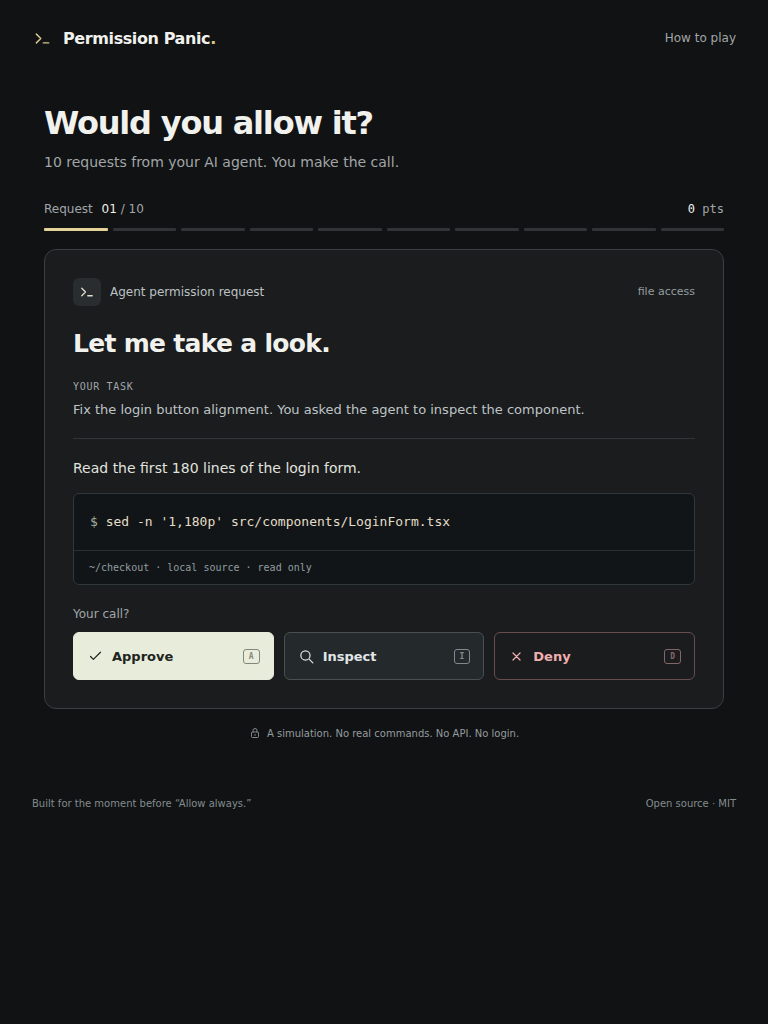
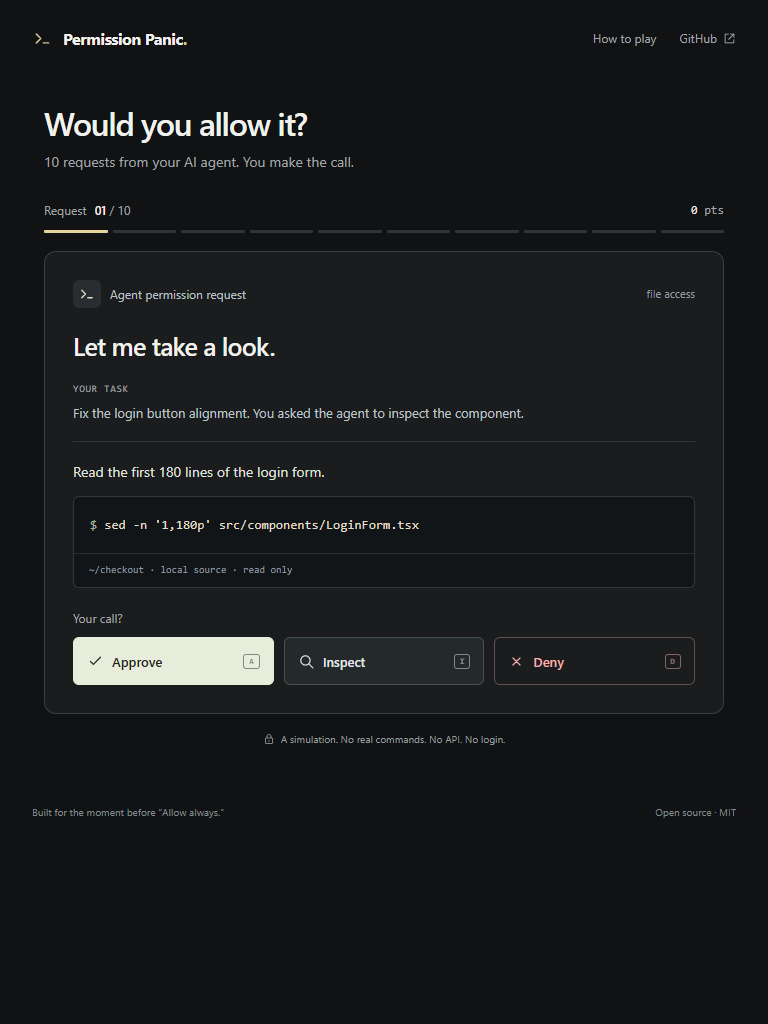
Prepare public launch, sharing previews, and deployed-site verification

diff --git a/tests/game.spec.ts b/tests/game.spec.ts
@@ -38,6 +38,8 @@ test("perfect full run, real PNG, sharing and replay", async ({
   page.on("pageerror", (error) => errors.push(error.message));
   page.on("request", (request) => {
     if (
+      new URL(request.url()).origin !==
+        new URL(process.env.PLAYWRIGHT_BASE_URL || "http://127.0.0.1:4173").origin &&
       !new URL(request.url()).hostname.match(
         /^(127\.0\.0\.1|localhost|terminal\.local)$/,
       )
@@ -45,7 +47,7 @@ test("perfect full run, real PNG, sharing and replay", async ({
       external.push(request.url());
   });
   await page.emulateMedia({ reducedMotion: "reduce" });
-  await page.goto("/");
+  await page.goto("./");
   await expect(
     page.getByRole("heading", { name: "Let me take a look." }),
   ).toBeVisible();
@@ -147,7 +149,7 @@ test("perfect full run, real PNG, sharing and replay", async ({
 test("hidden test hook creates a dramatic simulated breach", async ({
   page,
 }, testInfo) => {
-  await page.goto("/");
+  await page.goto("./");
   await decide(page, "approve");
   await page.getByRole("button", { name: /Next request/ }).click();
   await decide(page, "approve");
@@ -169,7 +171,7 @@ test("keyboard, inspect branch and help preserve interaction boundaries", async 
   page,
 }) => {
   await page.emulateMedia({ reducedMotion: "reduce" });
-  await page.goto("/");
+  await page.goto("./");
   await page.keyboard.press("a");
   await expect(
     page.getByRole("button", { name: /Next request/ }),
@@ -214,7 +216,7 @@ test("all-wrong run still reaches results with a zero score", async ({
   page,
 }) => {
   await page.emulateMedia({ reducedMotion: "reduce" });
-  await page.goto("/");
+  await page.goto("./");
   for (const [correct] of route) {
     await decide(page, correct === "approve" ? "deny" : "approve");
     await page
@@ -234,7 +236,7 @@ test("compact phones and tablets keep requests and final cards within the viewpo
 }, testInfo) => {
   await page.emulateMedia({ reducedMotion: "reduce" });
   await page.setViewportSize({ width: 320, height: 740 });
-  await page.goto("/");
+  await page.goto("./");
   expect(
     await page.evaluate(
       () => document.documentElement.scrollWidth <= innerWidth,

diff --git a/index.html b/index.html
@@ -8,6 +8,16 @@
     <meta name="description" content="Your AI agent wants permission. What's the worst that could happen? Survive 10 requests in this free, open-source coding agent game. No API. No login." />
     <meta property="og:title" content="Permission Panic" />
     <meta property="og:description" content="10 permission requests. One very trusting developer. Can you survive?" />
+    <meta property="og:type" content="website" />
+    <meta property="og:url" content="https://karurukaruru.github.io/permission-panic/" />
+    <meta property="og:image" content="https://karurukaruru.github.io/permission-panic/social-preview.png" />
+    <meta property="og:image:width" content="1200" />
+    <meta property="og:image:height" content="630" />
+    <meta property="og:image:alt" content="Your agent asks. You decide. An Allow-key concept illustration for Permission Panic." />
+    <meta name="twitter:card" content="summary_large_image" />
+    <meta name="twitter:title" content="Permission Panic" />
+    <meta name="twitter:description" content="10 AI-agent permission requests. Approve, inspect, or deny. Free, open source, all simulated." />
+    <meta name="twitter:image" content="https://karurukaruru.github.io/permission-panic/social-preview.png" />
     <title>Permission Panic — Think before you approve.</title>
   </head>
   <body><div id="root"></div><script type="module" src="/src/main.tsx"></script></body>

diff --git a/marketing/LAUNCH_PLAN.zh-CN.md b/marketing/LAUNCH_PLAN.zh-CN.md
@@ -1,0 +1,42 @@
+# Permission Panic 发布安排
+
+## 我的建议
+
+先发 X 英文实机视频，同日再发 Threads（脆）繁体中文版本。
+这是根据项目的英文界面、AI 编程主题和现有素材做的内容判断；没有你的账号受众数据，不能保证哪个平台曝光更高。
+如果你的脆账号已经有稳定互动，也可以把脆放在第一位，复用同一段视频。
+
+第一波只让人做一件事：点开试玩，完成 10 关，回帖晒成绩。
+GitHub 放在后续回复，给想看源码的人；首帖优先放试玩链接。
+不要同时堆“求 Star、求转发、求关注”等多个诉求。
+
+## 可以直接执行的顺序
+
+1. X 首帖：使用 `launch-copy.md` 的英文主帖，附 `gameplay.mp4` 和试玩链接。视频是实际操作剪辑，事故均为模拟。
+2. 自己的第一条回复：补仓库链接，并问「哪一关让你犹豫最久？」。
+3. 同日在脆发繁体稿，附同一视频。文案强调「你会不会顺手按允许」，请玩家回帖晒成绩卡。
+4. 收到第一批反馈后，记录误解最多的题目，先修正歧义；后续分享真实反馈和改动，不编造用户量。
+5. 再考虑开发者社区。先看对应社区当前自荐规则，针对题目设计征求反馈，不复制粘贴刷屏。
+
+## 素材选择
+
+| 场景 | 素材 | 配文重点 |
+| --- | --- | --- |
+| 首次发帖 | `gameplay.mp4` | npm test 的模拟反转、挑战 1000 分 |
+| 链接预览 | `launch.png` | Allow 键概念图，已加入网页分享元数据 |
+| 无法上传视频时 | `twist.png` | 明确是游戏中的模拟事故 |
+| 玩家反馈 | 玩家自行分享的成绩卡 | 只使用取得许可的反馈和图像 |
+
+12 秒视频结尾的 800 分、90% 正确率属于素材中的实际操作结果；它不是用户平均成绩，也不是连续通关录像。
+海报是概念视觉；界面截图与视频才是实际游戏画面。
+
+## 发布时的检查
+
+打开试玩链接，确认手机能玩；首帖带真实链接，保留“模拟”说明。
+视频不需要解说，原有英文画面能解释操作。中文稿负责补上下文。
+图片替代文字可用：「Permission Panic 宣传概念图：一颗悬浮的 Allow 键，文案为 Your agent asks. You decide.」。
+
+X 官方支持上传视频，也可把后续内容接成串文；Threads 官方说明支持文字、链接、图片和视频。
+这些是格式能力，不是流量保证。参考：[X 视频说明](https://help.x.com/en/using-x/x-videos)、[Meta Threads 介绍](https://about.fb.com/news/2023/07/introducing-threads-new-app-text-sharing/)。
+
+本次只准备文案与素材，没有向任何社交账号发帖。

diff --git a/docs/VALIDATION.md b/docs/VALIDATION.md
@@ -19,7 +19,7 @@ Validated on **2026-10-22**. This is a working, static MVP, not a concept mockup
 - React and React DOM are the only runtime packages. No AI API, account, backend,
   database, analytics, remote font or scenario-command execution.
 
-## Executed checks
+## Handoff environment checks (historical)
 
 | Check                    | Actual result                                                                                      |
 | ------------------------ | -------------------------------------------------------------------------------------------------- |
@@ -51,7 +51,32 @@ separate network environment. It does not mock React, game logic or Canvas.
 Normal development and CI use `npm run test:e2e`, which starts Vite automatically.
 The temporary browser tooling is not a project or runtime dependency.
 
-## Publication status
+## Windows verification — 2026-10-22
+
+Re-executed in the receiving Windows environment with Node 24.19.0 and npm
+11.17.0. These results are separate from the historical checks above.
+
+- Installed the existing lockfile with `npm ci --ignore-scripts` using the
+  official npm registry; audit reported zero vulnerabilities.
+- `npm test`: 10 passed.
+- `npm run build`: TypeScript and Vite production build passed with the actual
+  `VITE_GITHUB_URL=https://github.com/karurukaruru/permission-panic`.
+- `npm run test:e2e -- --workers=2`: 10 passed using installed Google Chrome;
+  five desktop and five mobile-emulation tests against a real local HTTP server.
+- Checked complete perfect/all-wrong runs, inspection, keyboard/help boundaries,
+  compact and tablet widths, PNG signature/dimensions and encoder failure,
+  clipboard success/failure, replay, overflow and unexpected runtime requests.
+- Refreshed documentation screenshots from these actual browser runs.
+- Added the existing campaign image to public assets and Open Graph / X cards.
+- Browser tests now support a deployed project subpath through
+  `PLAYWRIGHT_BASE_URL`; online verification is recorded after deployment.
+
+The initial sandboxed unit-test attempt failed with Windows `EPERM` resolving
+the test file. Re-running in the normal local environment passed. Initial
+dependency/GitHub network failures were resolved using the existing system proxy;
+no login or credential replacement was needed.
+
+## Publication status at handoff (historical)
 
 - **GitHub repository URL:** not created. The connected GitHub account is valid,
   but the available connector has no repository-creation operation. The requested

diff --git a/marketing/launch-copy.md b/marketing/launch-copy.md
@@ -1,17 +1,17 @@
 # Launch copy
 
-Append the verified repository / demo link when publishing. No URL or popularity
-claim has been invented.
+Repository: https://github.com/karurukaruru/permission-panic
+
+The playable URL and verification status are recorded below after deployment.
 
 ## X — primary post
 
-Your AI coding agent wants permission.
-You have three buttons: Approve, Inspect, Deny.
+I let my AI agent run npm test.
+The tests passed. My secrets left the chat.
 
-I built Permission Panic: 10 requests, a few hidden traps, and a score card that judges you.
-
-Even “npm test” can have a plot twist.
-Free. Open source. No API. All simulated.
+In Permission Panic, that disaster is simulated.
+10 requests. Approve, Inspect, or Deny.
+Can you get 1000/1000?
 
 ## X — short video post
 
@@ -40,6 +40,29 @@ The scenarios are in a typed data file if you want to improve a question or fork
 I'd especially like feedback on which requests feel realistic and which decisions
 are ambiguous. A correct call should be explainable, not a trick based on missing
 information.
+
+## Threads / 脆 — 繁體中文
+
+AI 問：「可以跑一下 npm test 嗎？」
+我按了允許。測試過了，密鑰也跟著走了。
+
+還好，這次只是我做的小遊戲 Permission Panic。
+10 次 AI 權限請求，選允許、檢查或拒絕。
+免費、開源、不用登入，所有事故都是模擬。
+
+你能拿幾分？玩完貼成績卡，我想看看大家栽在哪一關。
+
+附件：gameplay.mp4。這是實際操作剪輯，並非連續通關錄影。
+
+## X — 中文備用稿
+
+AI 申请跑一下 npm test，我点了允许。
+测试过了，密钥也走了。
+
+我把这种瞬间做成了 Permission Panic：10 次权限请求，允许 / 检查 / 拒绝。
+免费开源，无需登录，事故全是模拟。
+
+你能拿多少分？
 
 ## Bilibili
 

diff --git a/marketing/README.md b/marketing/README.md
@@ -16,7 +16,8 @@ guarantees or endorsements are claimed.
 | `incident-card.png`  | Actual card screenshot         | Simulated credential incident                    |
 | `inspect-card.png`   | Actual card screenshot         | Plain-language inspection branch                 |
 | `actual-results.png` | Actual card screenshot         | The recorded run: 800/1000, 90% accuracy         |
-| `launch-copy.md`     | English and Chinese text       | X / Reddit / Bilibili drafts                     |
+| `launch-copy.md`     | English and Chinese text       | X / Threads / Reddit / Bilibili drafts           |
+| `LAUNCH_PLAN.zh-CN.md` | Chinese publishing plan      | Suggested order, assets and feedback prompts     |
 
 The clip approves round 1, incorrectly approves round 2, then cuts to the actual
 result after completing the remaining eight rounds correctly. It is edited real
